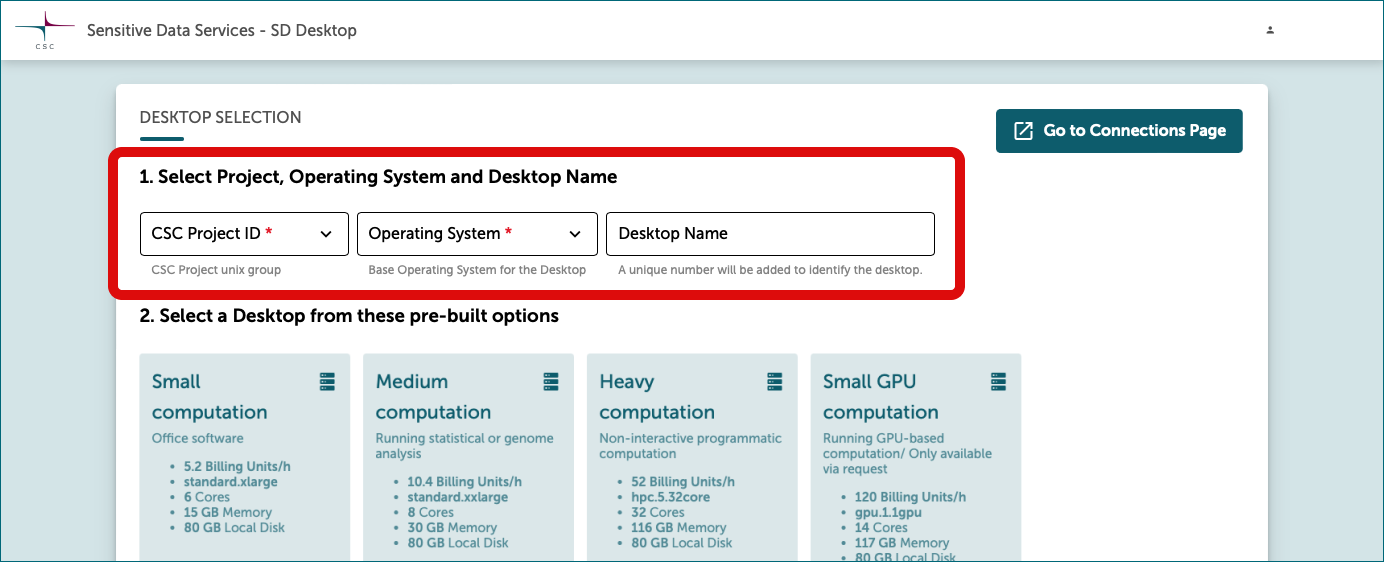
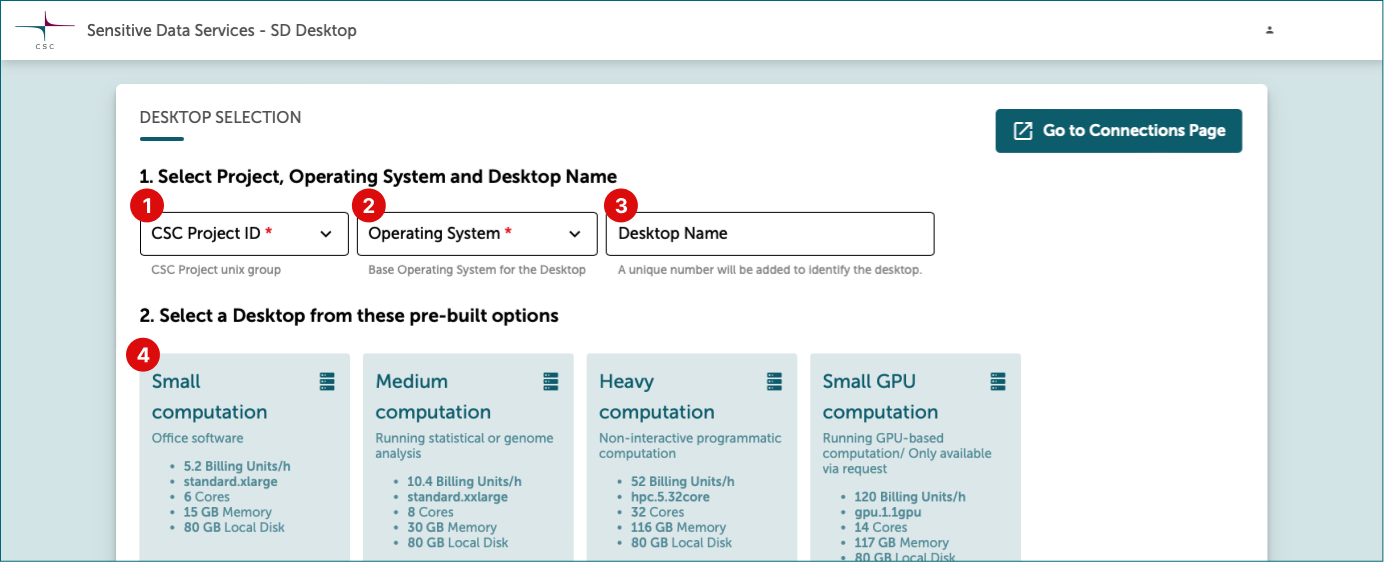
Updates to create desktop

diff --git a/docs/data/sensitive-data/sd-desktop-create.md b/docs/data/sensitive-data/sd-desktop-create.md
@@ -2,21 +2,33 @@
 
 <iframe width="280" height="155" srcdoc="https://www.youtube.com/embed/t6xXKPTB6H0" title="YouTube video player" frameborder="0" allow="accelerometer; autoplay; clipboard-write; encrypted-media; gyroscope; picture-in-picture" allowfullscreen></iframe>
 
-Creating a virtual desktop is easy and doesn't require technical expertise. 
+With the SD Desktop service, you can create virtual computers for analysing sensitive data. On your virtual desktop, you can analyze sensitive research data through your web browser securely. In addition, SD Desktop provides a secure workspace for collaborative research projects. You can create up to three virtual desktops for one CSC project. Creating a virtual desktop doesn't require technical expertise. 
 
-* first [log in](./sd-desktop-login.md)
-* click on *Go to SD Desktop Management* [(See screenshot)](images/desktop/SD-Desktop_GoToManagement.png){ target="_blank" }
-* and follow these steps:
+## Step by step
 
-## 1. Specify desktop parameters
-  
-* Select your CSC project and operating system. We recommend to choose **Linux Ubuntu22**, since there will be no updates published for Linux CentOS7 after June 30, 2024 [(See screenshot)](images/desktop/SD-Desktop_SelectProject.png){ target="_blank" }.
-  
-* Give your desktop a name for easy identification, so that all project members can quickly identify it later on.
+### 1. Log in:
+* [Log in](./sd-desktop-login.md) to SD Desktop service. [Login instructions](sd-desktop-secondary-login.md).
+* Click on *Go to SD Desktop Management*.
+![Go to SD Desktop Management.](./images/desktop/SD-Desktop_GoToManagement.png)
 
-## 2. Choose a pre-built desktop options
+### 2. Select :
+1. correct CSC project
+2. operating system. We recommend to choose **Linux Ubuntu22**, since there will be no updates published for Linux CentOS7 after June 30, 2024. 
+3. name for your desktop. A descriptive name is useful, especially if you are working on multiple projects. Note, that the name should only include letters or numbers, and you shouldn't use special characters or spaces in the name.
+4. a pre-built desktop option based on your needs. [See options below](#virtual-desktop-options)
 
-Choose a pre-built option based on your needs: Small (for basic tasks), Medium (for complex analysis), or Heavy (for intensive tasks) [(See screenshot)](images/desktop/SD-Desktop_PreBuild.png){ target="_blank" }.
+![Virtual desktop parameters.](./images/desktop/SD-Desktop_SelectProject.png)
+
+Add an external volume (virtual external hard drive) to your virtual desktop, extending default storage (80 GB) up to 200 GB.
+    * Name your volume. Note, that the volume name should not include special characters or spaces.
+    * Choose a size that covers the combined size of your dataset and working files. If you are unsure about which volume size you should choose, send an email to servicedesk@csc.fi.
+    * **It's advisable to save critical analyses or files on the volume, which can also serve as a backup if the virtual desktop becomes unresponsive.** Note that after the virtual desktop is created, disk space/volume extension requires contacting [CSC Service Desk](../../support/contact.md), *(subject: Sensitive Data)*. 
+    * **You can detach and attach a volume from your virtual desktop** on the SD Desktop Management page. This can be compared to connecting/disconnecting a hard drive to your laptop. This feature is available only on desktops created after February 2023. For additional details, refer to: [Managing volume and desktops](./sd-desktop-manage.md).
+![Add volume.](https://a3s.fi/docs-files/sensitive-data/SD_Desktop/SD-Desktop_Volume.png)
+
+Finally, press on _Create desktop_. The operation is entirely automated and can take up to 30 minutes. If you try accessing the virtual desktop during this process, an error message will be displayed asking you to return later.
+
+### Virtual desktop options
 
 |  | Use  | Technical specifications | Correspondent Pouta Flavor | Billing Units consumption |
 |-|-|-|-|-| 
@@ -28,31 +40,6 @@ Choose a pre-built option based on your needs: Small (for basic tasks), Medium (
 
 !!! note
     The two GPU options are available only for testing purposes. Before proceeding, contact [CSC Service Desk](../../support/contact.md), *(subject: Sensitive Data)* to ensure optimal use, as limited resources require careful planning.
-
-## 3. Add an external volume
-
-* Attach an external volume (virtual external hard drive) to your virtual desktop, extending default storage (80 GB) up to 200 GB. Choose *Volume size* (recommended: 50 GB for small computing, 100 GB for medium, 200 GB for heavy computation) and assign a name in the *Volume name* -field [(See screenshot)](images/desktop/SD-Desktop_Volume.png){ target="_blank" }.
-
-* **It's advisable to save critical analyses or files on the volume, which can also serve as a backup if the virtual desktop becomes unresponsive.** Note that after the virtual desktop is created, disk space/volume extension requires contacting [CSC Service Desk](../../support/contact.md), *(subject: Sensitive Data)*. 
-
-* **You can detach and attach a volume from your virtual desktop** on the SD Desktop Management page. This can be compared to connecting/disconnecting a hard drive to your laptop. This feature is available only on desktops created after February 2023. For additional details, refer to: [Managing volume and desktops](./sd-desktop-manage.md).
-
-## 4. Desktop creation
-
-* Finally, press on _Create desktop_. The operation is entirely automated and can take up to 30 minutes. If you try accessing the virtual desktop during this process, an error message will be displayed asking you to return later.
-
-### Screenshots
-=== "Go to SD Desktop Mangement"
-    ![Go to SD Desktop Management -button](images/desktop/SD-Desktop_GoToManagement.png)
-=== "1. Desktop parameters"
-    ![Select project](images/desktop/SD-Desktop_SelectProject.png)
-=== "2. Pre-build desktop options"
-    ![Select pre-build option](images/desktop/SD-Desktop_PreBuild.png)
-=== "3. External volume"
-    ![Add external volume](images/desktop/SD-Desktop_Volume.png)
-=== "4. Create desktop"
-    ![Create Desktop -button](images/desktop/SD-Desktop_CreateButton.png)
-
 
 
 ## Important considerations
